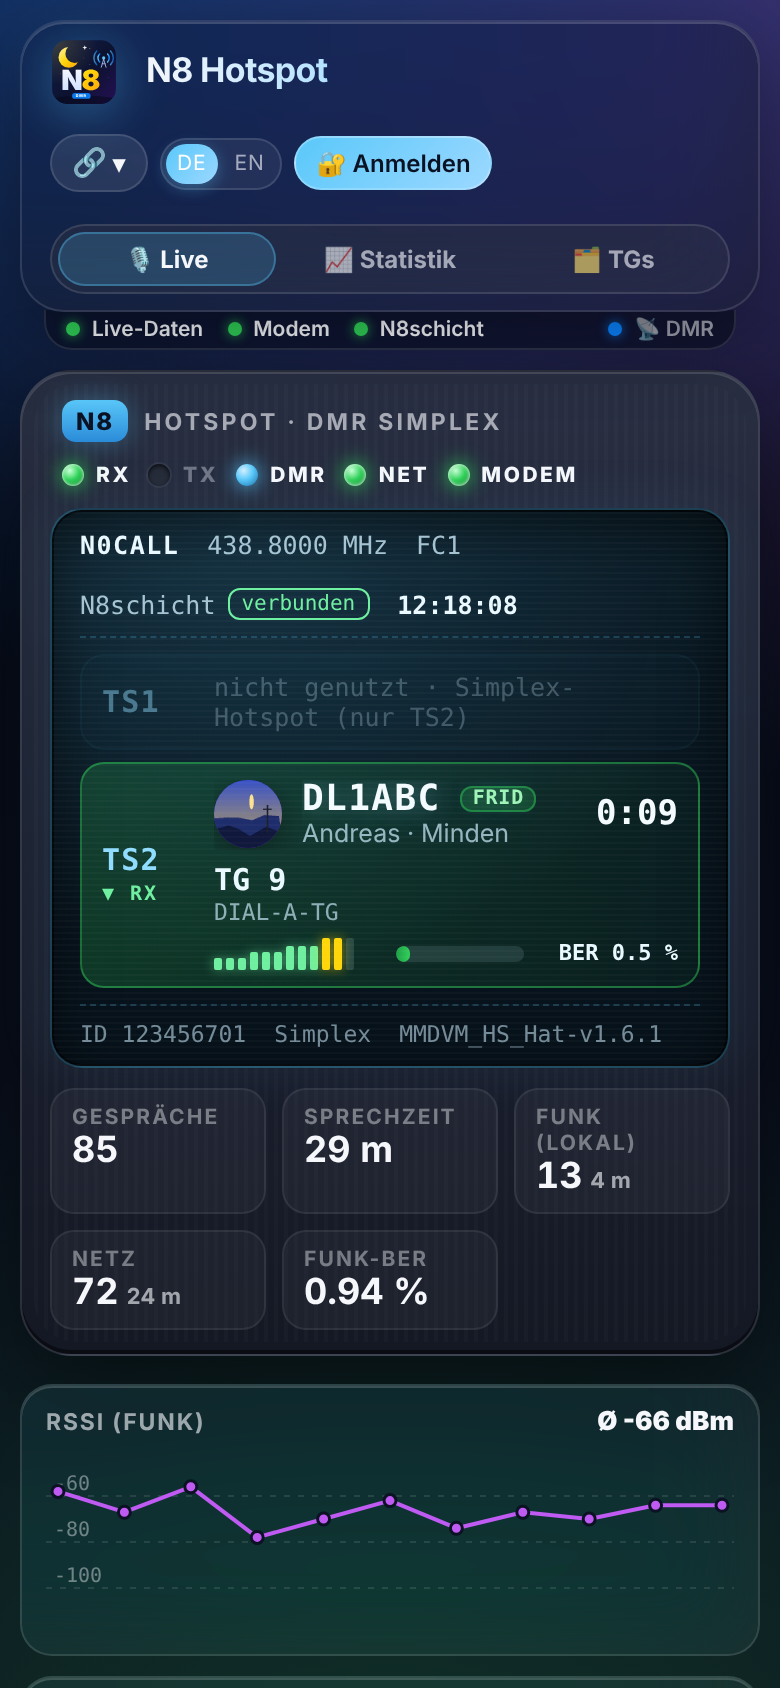
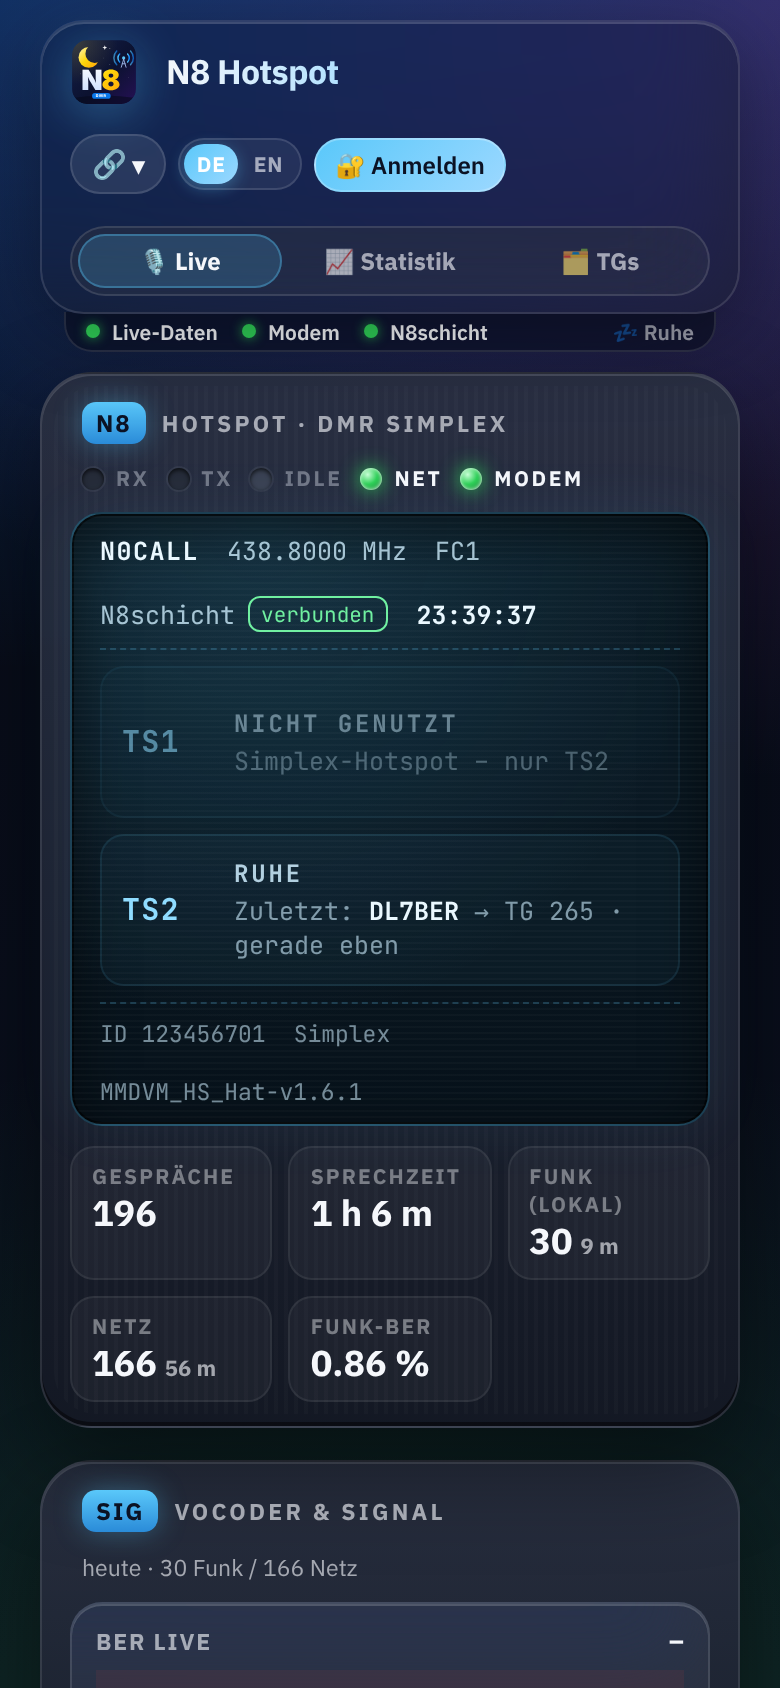
1.9.1: Live-Ansicht symmetrisch – TS1/TS2 gleich hoch, 2×2-Raster mit gleich hohen Reihen
Claude-Session: https://claude.ai/code/session_01J5RG2njQDPpN1LJmv9Xn8d

diff --git a/static/index.html b/static/index.html
@@ -64,9 +64,8 @@
 
     <!-- ================= LIVE ================= -->
     <section id="tab-live">
+        <!-- symmetric 2 × 2: radio | BER live, RSSI + voice quality | last calls – each row has the same height on both sides -->
         <div class="live-grid">
-          <div class="live-left">
-            <!-- the hotspot as a digital radio: LEDs, display with both time slots, live meters -->
             <div class="radio" id="radio">
                 <div class="radio-bar">
                     <div class="radio-brand"><span class="radio-badge">N8</span><span class="radio-model" id="rdModel">Hotspot · DMR</span></div>
@@ -97,7 +96,15 @@
                     <span class="rt"><small>RF BER</small><b id="sBer">–</b></span>
                 </div>
             </div>
-
+            <!-- signal & vocoder: BER of the running call -->
+            <div class="sigpanel sp-live" id="sigPanel">
+                <div class="radio-bar sig-bar"><div class="radio-brand"><span class="radio-badge">SIG</span><span class="radio-model">Vocoder &amp; signal</span></div>
+                    <small class="dim" id="sigNote"></small></div>
+                <div class="sig-card">
+                    <div class="sig-head"><span>BER live</span><b id="sigBerNow">–</b></div>
+                    <div class="sig-chart tall" id="chBerLive"></div>
+                </div>
+            </div>
             <div class="sig-row">
                 <div class="sig-card">
                     <div class="sig-head"><span>RSSI (RF)</span><b id="sigRssi">–</b></div>
@@ -109,15 +116,7 @@
                     <div class="sig-kv" id="sigKv"></div>
                 </div>
             </div>
-          </div>
-            <!-- signal & vocoder: BER of the running call, quality of the last calls, RSSI, voice frames -->
-            <div class="sigpanel" id="sigPanel">
-                <div class="radio-bar sig-bar"><div class="radio-brand"><span class="radio-badge">SIG</span><span class="radio-model">Vocoder &amp; signal</span></div>
-                    <small class="dim" id="sigNote"></small></div>
-                <div class="sig-card">
-                    <div class="sig-head"><span>BER live</span><b id="sigBerNow">–</b></div>
-                    <div class="sig-chart tall" id="chBerLive"></div>
-                </div>
+            <div class="sigpanel sp-recent">
                 <div class="sig-card">
                     <div class="sig-head"><span>Last calls · BER (RF) / loss (network)</span><span class="legend-mini"><i class="lg rf"></i>RF <i class="lg net"></i>Network</span></div>
                     <div class="sig-chart tall" id="chRecent"></div>

diff --git a/static/app.css b/static/app.css
@@ -273,12 +273,18 @@ details.perm-ok summary { cursor: pointer; font-size: 13px; color: var(--muted, 
 /* =====================================================================================================
    Live view 1.5.0: the hotspot as a digital radio – LEDs, display with both time slots, signal & vocoder
    ===================================================================================================== */
-.live-grid { display: grid; grid-template-columns: minmax(0, 1fr) minmax(0, 1fr); gap: 16px; align-items: stretch; margin-top: 6px; }
-.live-left { display: flex; flex-direction: column; gap: 14px; min-width: 0; }
-.live-left > .sig-row { flex: 1; }
-.live-left > .sig-row > .sig-card { display: flex; flex-direction: column; }
-.live-left > .sig-row .sig-chart.sm { flex: 1; min-height: 92px; }
-@media (max-width: 1060px) { .live-grid { grid-template-columns: 1fr; } }
+.live-grid { display: grid; grid-template-columns: minmax(0, 1fr) minmax(0, 1fr); grid-template-areas: "radio sig" "row recent";
+    gap: 16px; align-items: stretch; margin-top: 6px; }
+.live-grid > .radio { grid-area: radio; display: flex; flex-direction: column; }
+.live-grid > .sp-live { grid-area: sig; }
+.live-grid > .sig-row { grid-area: row; }
+.live-grid > .sp-recent { grid-area: recent; }
+.live-grid > .sig-row > .sig-card { display: flex; flex-direction: column; min-height: 210px; }
+.live-grid > .sig-row .sig-chart.sm { flex: 1; min-height: 120px; height: auto; }
+.live-grid > .sp-recent .sig-chart.tall { min-height: 150px; }
+/* the charts draw into the space they get – they never push the card bigger */
+.sig-chart > svg { position: absolute; inset: 0; width: 100%; height: 100%; }
+@media (max-width: 1060px) { .live-grid { grid-template-columns: 1fr; grid-template-areas: "radio" "sig" "row" "recent"; } }
 
 .radio { position: relative; border-radius: 26px; padding: 14px 14px 12px;
     background: linear-gradient(180deg, rgba(42, 48, 66, .92), rgba(20, 24, 36, .96));
@@ -426,3 +432,10 @@ details.perm-ok summary { cursor: pointer; font-size: 13px; color: var(--muted, 
 }
 .ka-tile { grid-column: 1 / -1; }
 .ka-form { margin-top: 10px; }
+
+/* both time slots always the same height – also when TS1 is unused (simplex) */
+.radio > .lcd { flex: 1; display: flex; flex-direction: column; }
+.lcd .lcd-slots { display: grid; grid-template-rows: 1fr 1fr; gap: 8px; flex: 1; }
+.lcd .lcd-slot { min-height: 76px; }
+.lcd .lcd-slot.unused { opacity: .55; }
+@media (min-width: 1800px) { .live-grid { gap: 20px; } .lcd .lcd-slot { min-height: 86px; } }

diff --git a/static/app.js b/static/app.js
@@ -298,7 +298,7 @@ function renderSlots() {
     const i = S.info || {}, L = S.live || { slots: {} };
     $('slots').innerHTML = [1, 2].map(n => {
         const c = L.slots && L.slots[String(n)];
-        if (!i.duplex && n === 1) return `<div class="lcd-slot unused"><div class="ts">TS1</div><div class="lcd-idle">not used · simplex hotspot (TS2 only)</div></div>`;
+        if (!i.duplex && n === 1) return `<div class="lcd-slot unused"><div class="ts">TS1</div><div class="lcd-idle"><b>Not used</b><span>Simplex hotspot – only TS2</span></div></div>`;
         if (!c) {
             const last = (L.last_heard || []).find(e => e.slot === n);
             return `<div class="lcd-slot idle"><div class="ts">TS${n}</div><div class="lcd-idle"><b>Idle</b>${last ? `<span>Last: <b>${esc(last.callsign || last.src_id)}</b> → ${last.group ? 'TG ' : ''}${esc(last.dst_id)} · ${ago(last.ts + last.duration)}</span>` : '<span>Nothing heard yet</span>'}</div></div>`;
@@ -376,7 +376,7 @@ const svgNS = 'http://www.w3.org/2000/svg';
 function svgEl(w, h, inner) { return `<svg viewBox="0 0 ${w} ${h}" width="${w}" height="${h}" class="sig-svg" role="img">${inner}</svg>`; }
 function boxSize(el, h) { return [Math.max(200, Math.round(el.clientWidth || 600)), Math.max(40, Math.round(el.clientHeight || h))]; }
 if (window.ResizeObserver) new ResizeObserver(() => { clearTimeout(S.sigRo); S.sigRo = setTimeout(() => { if (S.sig.data) renderSignal(); }, 120); })
-    .observe(document.getElementById('sigPanel'));
+    .observe(document.querySelector('.live-grid') || document.getElementById('sigPanel'));
 window.addEventListener('resize', () => { clearTimeout(S.sigRz); S.sigRz = setTimeout(() => { if (S.sig.data) renderSignal(); }, 200); });
 function zoneBands(W, H, max) {   // green < 1 %, amber 1–3 %, red above (BER)
     const y = v => H - Math.min(v, max) / max * H;

diff --git a/static/i18n-app.js b/static/i18n-app.js
@@ -93,7 +93,7 @@ N8Kit.i18n.add({
         // 1.5.0: live view as a radio, vocoder & signal, services, permissions & sudo, update log (N8 Admin-Kit)
         'Receiving from a radio (RF)': 'Empfang von einem Funkgerät (RF)', 'Transmitting to the radios (from the network)': 'Sendet an die Funkgeräte (aus dem Netz)',
         'Mode of MMDVMHost': 'Betriebsart von MMDVMHost', 'Connection to the DMR server': 'Verbindung zum DMR-Server',
-        'no network': 'kein Netz', 'failed': 'fehlgeschlagen', 'connecting': 'verbindet', 'not used · simplex hotspot (TS2 only)': 'nicht genutzt · Simplex-Hotspot (nur TS2)',
+        'no network': 'kein Netz', 'failed': 'fehlgeschlagen', 'connecting': 'verbindet', 'not used · simplex hotspot (TS2 only)': 'nicht genutzt · Simplex-Hotspot (nur TS2)', 'Not used': 'Nicht genutzt', 'Simplex hotspot – only TS2': 'Simplex-Hotspot – nur TS2',
         'Last:': 'Zuletzt:', 'Nothing heard yet': 'Noch nichts gehört', 'no RSSI': 'kein RSSI', 'Data': 'Daten',
         'Bit error rate – below 1 % clean, above 3 % the vocoder struggles': 'Bitfehlerrate – unter 1 % sauber, über 3 % kämpft der Vocoder',
         'Vocoder & signal': 'Vocoder & Signal', 'BER live': 'BER live', 'Last calls · BER (RF) / loss (network)': 'Letzte Durchgänge · BER (Funk) / Verlust (Netz)',

diff --git a/CHANGELOG.md b/CHANGELOG.md
@@ -4,6 +4,19 @@ Alle Versionen von **N8-Hotspot** (DMR Die N8schicht), die neueste oben.
 Die Nummern folgen [Semantic Versioning](https://semver.org/lang/de/): `MAJOR.MINOR.PATCH`.
 Wie Versionen und Updates funktionieren, steht in [docs/de/updates.md](docs/de/updates.md).
 
+## [1.9.1] – 2026-11-25
+
+### 📐 Live-Ansicht symmetrisch
+- **TS1 und TS2 sind immer gleich hoch** – auch wenn TS1 beim Simplex-Hotspot nicht genutzt wird („Nicht genutzt · Simplex-Hotspot –
+  nur TS2“ jetzt zweizeilig wie ein ruhender Slot) und wenn auf TS2 gerade jemand mit Avatar spricht. Die beiden Slots teilen sich die
+  Höhe des Displays.
+- **Gleich hohe Blöcke über die ganze Browserbreite:** Die Live-Ansicht ist jetzt ein 2 × 2-Raster – oben *Hotspot* | *BER live*,
+  unten *RSSI + Sprachqualität* | *Letzte Durchgänge*. Jede Reihe ist links und rechts gleich hoch (vorher war die rechte Spalte höher
+  und RSSI hatte eine große leere Fläche). Die Grafiken füllen den Platz, den sie bekommen, und drücken die Karten nicht mehr auf.
+- Auf sehr breiten Bildschirmen (ab 1800 px) etwas mehr Luft, unter 1060 px untereinander in der Reihenfolge Hotspot, BER live, RSSI +
+  Sprachqualität, letzte Durchgänge.
+- Screenshots *live.png* und *live-mobile.png* neu.
+
 ## [1.9.0] – 2026-11-25
 
 ### 🔤 Schriftauswahl mit Vorschau – in allen N8-Systemen (N8 Theme 2.1)
